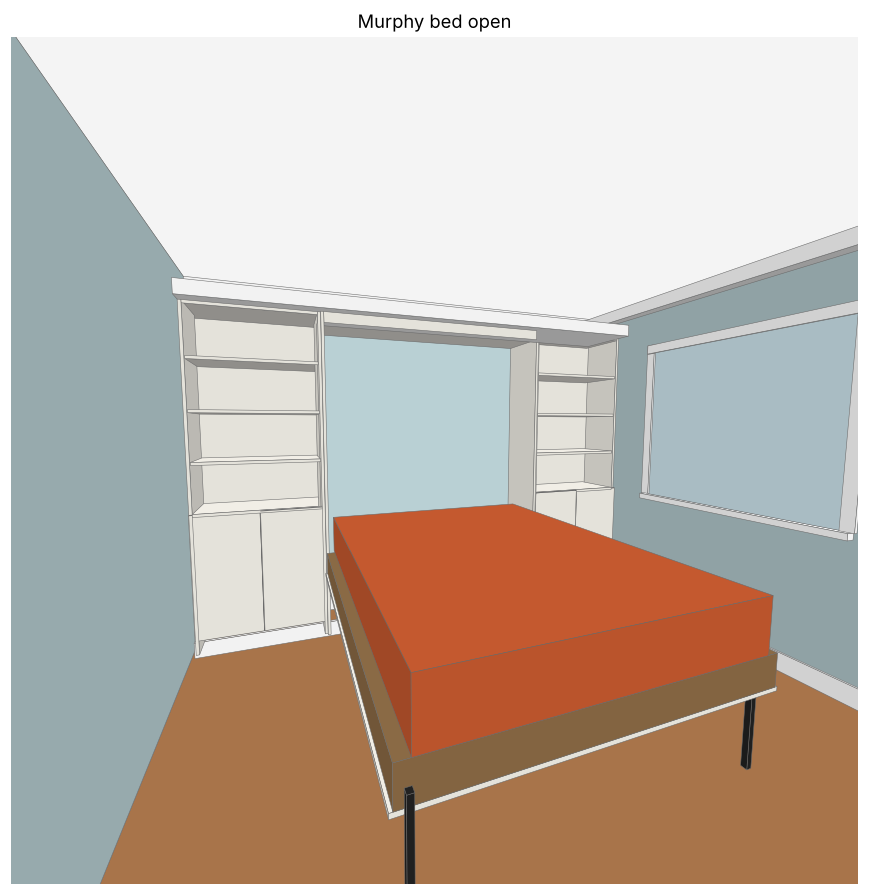
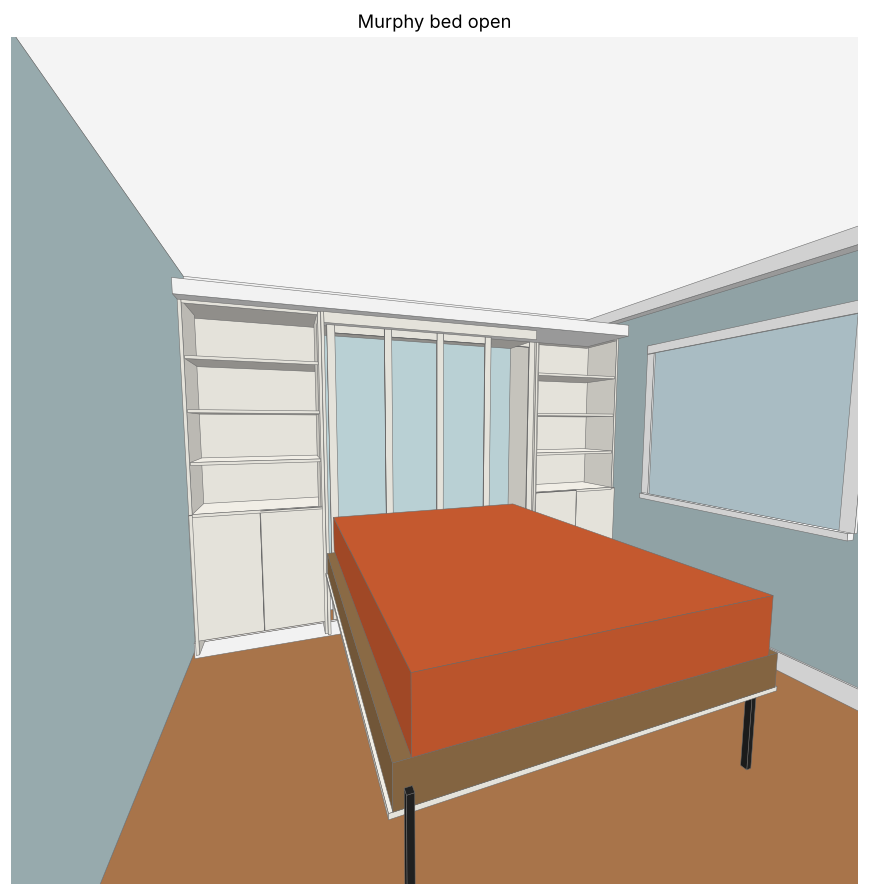
Add face panel moulding (kit p.3 full-length style) to model, cut list, guide and tests
Claude-Session: https://claude.ai/code/session_01KugbWEtLNVU8bq7dW5xBvy

Changed region(s): [[0.3728, 0.362, 0.6214, 0.6034]]

diff --git a/murphy-bed/design.py b/murphy-bed/design.py
@@ -12,6 +12,7 @@ exactly (UPDATED_Queen_Adjustable.pdf, pp. 2, 5, 6). Everything else is ours.
 import csv
 import math
 import os
+from collections import Counter
 from dataclasses import dataclass, field
 from fractions import Fraction
 
@@ -49,6 +50,18 @@ STUD_OC = 16.0          # wall stud spacing (ASSUMED; the kit needs 4 anchor poi
 FACE_PANEL_H = 81.75    # plans p.6 part E
 HEADER_FRONT_RAIL = 2.75  # plans p.6 part H front rail covers the top of the opening
 FACE_PANEL_BOTTOM = BED_H - HEADER_FRONT_RAIL - FACE_PANEL_H   # ~2-5/8" above the floor
+FACE_PANEL_W = 64.0     # two 32" panels side by side (plans p.6 part E)
+FACE_PANEL_STYLE = 'full'   # kit p.3: 'full' = full-length stiles, 'split' = adds a middle rail
+FACE_TRIM_W, FACE_TRIM_T = 2.0, 0.25   # flat strips applied to the panel (ASSUMED; thin to save weight)
+FACE_TRIM_INSET = 0.5   # strips stay this far inside the panel edges so nothing catches on the verticals/header
+FACE_TRIM_BOTTOM = max(FACE_TRIM_INSET, BASE_H + 0.125 - FACE_PANEL_BOTTOM)   # keep strips above the base moulding
+FACE_SPLIT_Z = 29.0     # split style: bottom of the middle rail, measured up from the panel bottom
+FACE_TRIM_DENSITY = 0.0162   # lb per cubic inch, poplar (~28 lb/ft^3); MDF is ~0.0278
+PLY_DENSITY = 0.0226    # lb per cubic inch, birch plywood (~39 lb/ft^3)
+MATTRESS_LB = 70.0      # ASSUMED: weigh yours. Kit spec for a queen is 65-80 lb (plans p.1)
+MATTRESS_MAX_LB = 80.0
+HANDLE_OFFSET = 3.0     # handle centre distance from the panel centre line
+HANDLE_Z = (62.0, 70.0)  # handle bar height above the floor (kit says 5'-6')
 LOWER_H = 36.0          # top of lower (doored) section
 KERF = 0.125            # user's saw blade is at least 1/8"; every cut in the layouts costs this much
 EDGE_TRIM = 0.125       # factory edge trimmed off one long edge and one end of every sheet
@@ -115,6 +128,45 @@ def tower_parts():
         Part('Tower back', 'tower', '1/4 ply', n, TOWER_W, BED_H),
         Part('Scribe strip (rip to fit walls)', 'tower', '3/4 ply', 2, 3.0, BED_H, 'face-attached to outer tower sides'),
     ]
+
+
+def face_trim_layout():
+    """Flat strips applied to the face panels, in panel coordinates (x from left edge, z from bottom edge)."""
+    inset, sw, bot = FACE_TRIM_INSET, FACE_TRIM_W, FACE_TRIM_BOTTOM
+    frame_w, frame_h = FACE_PANEL_W - 2 * inset, FACE_PANEL_H - inset - bot
+    opening = (frame_w - 5 * sw) / 4
+    out = [('Face moulding stile', inset + i * (opening + sw), bot, sw, frame_h) for i in range(5)]
+    for j in range(4):
+        x = inset + sw + j * (opening + sw)
+        out.append(('Face moulding rail', x, bot, opening, sw))
+        out.append(('Face moulding rail', x, bot + frame_h - sw, opening, sw))
+        if FACE_PANEL_STYLE == 'split':
+            out.append(('Face moulding middle rail', x, FACE_SPLIT_Z, opening, sw))
+    return out
+
+
+def face_trim_parts():
+    count = Counter((n, round(w, 4), round(h, 4)) for n, _, _, w, h in face_trim_layout())
+    return [Part(n, 'facetrim', 'solid', q, min(w, h), max(w, h), f'{frac(FACE_TRIM_T)} thick; square cuts, glue + 18 ga brads')
+            for (n, w, h), q in count.items()]
+
+
+def face_trim_weight_lb():
+    return sum(w * h for _, _, _, w, h in face_trim_layout()) * FACE_TRIM_T * FACE_TRIM_DENSITY
+
+
+def moving_mass_lb():
+    """Rough weight of the part of the bed that moves, without mattress (ply + solid parts + ~6 lb legs/hardware)."""
+    total = 6.0
+    for p in bed_parts():
+        if p.name.startswith(('F ', 'G ', 'H ')):         # cabinet parts do not move
+            continue
+        vol = {'3/4 ply': 0.75, '1/4 ply': 0.25}.get(p.mat)
+        if vol:
+            total += p.qty * p.w * p.l * vol * PLY_DENSITY
+        else:
+            total += p.qty * p.w * p.l * 0.75 * FACE_TRIM_DENSITY
+    return total
 
 
 def trim_list():
@@ -209,8 +261,12 @@ def boxes():
     b.append(('bed vertical L', 'bed', x_bed, 0, 0, T, BED_D, BED_H))
     b.append(('bed vertical R', 'bed', x_right - T, 0, 0, T, BED_D, BED_H))
     b.append(('bed header', 'bed', x_bed + T, 0, BED_H - HEADER_FRONT_RAIL, BED_W - 2 * T, BED_D, HEADER_FRONT_RAIL))
-    b.append(('bed face (closed)', 'bed', x_bed + T + 0.5, BED_D - 0.75 - 0.125, FACE_PANEL_BOTTOM, BED_W - 2 * T - 1.0, 0.75, FACE_PANEL_H))
-    b.append(('bed frame (closed)', 'bedin', x_bed + T + 0.75, BED_D - 0.875 - 6.0, FACE_PANEL_BOTTOM, BED_W - 2 * T - 1.5, 6.0, FACE_PANEL_H - 0.75))
+    face_x = x_bed + T + (BED_W - 2 * T - FACE_PANEL_W) / 2
+    face_y = BED_D - 0.125 - 0.75
+    b.append(('bed face (closed)', 'bed', face_x, face_y, FACE_PANEL_BOTTOM, FACE_PANEL_W, 0.75, FACE_PANEL_H))
+    b.append(('bed frame (closed)', 'bedin', face_x + 0.25, face_y - 6.0, FACE_PANEL_BOTTOM, FACE_PANEL_W - 0.5, 6.0, FACE_PANEL_H - 0.75))
+    for n, px, pz, pw, ph in face_trim_layout():
+        b.append((f'{n.lower()} @{px:.2f},{pz:.2f}', 'facetrim', face_x + px, face_y + 0.75, FACE_PANEL_BOTTOM + pz, pw, FACE_TRIM_T, ph))
     for nm, x0 in (('L', x_left), ('R', x_right)):
         b.append((f'tower side out {nm}', 'tower', x0, BACK_T, 0, T, SIDE_D, BED_H))
         b.append((f'tower side in {nm}', 'tower', x0 + tw - T, BACK_T, 0, T, SIDE_D, BED_H))
@@ -231,7 +287,7 @@ def boxes():
     return b
 
 
-COLORS = {'bed': '#c9a46c', 'bedin': '#a98550', 'tower': '#d8c29a', 'shelf': '#cfb284', 'door': '#e6d5b0', 'trim': '#f3ede0'}
+COLORS = {'facetrim': '#ead9b3', 'bed': '#c9a46c', 'bedin': '#a98550', 'tower': '#d8c29a', 'shelf': '#cfb284', 'door': '#e6d5b0', 'trim': '#f3ede0'}
 
 
 def write_scad(path):
@@ -308,10 +364,19 @@ vertical **and** each tower side: **{frac(notch_h)} tall x {frac(notch_d)} deep*
 - Iron slowly at medium-high heat, press with a block, trim the overhang with a banding trimmer or sharp chisel,
   and lightly sand the edge flush. Do the end grain first, then the long edges.
 
-## 5. Face-panel moulding (optional, kit p.3)
+## 5. Face-panel moulding ({FACE_PANEL_STYLE}-length style, kit p.3)
 
-The kit's "full-length" and "split" panel mouldings add weight to the face panel. The gas springs are balanced for
-the plain panel, so call Create-A-Bed (1-877-966-3852) before adding any.
+- **Layout.** Flat {frac(FACE_TRIM_W)} x {frac(FACE_TRIM_T)} strips on the two 32" face panels: 5 full-height stiles (the centre one covers the seam between the panels)
+  with short rails top and bottom{" and a middle rail" if FACE_PANEL_STYLE == "split" else ""}, making 4 equal panels about {frac((FACE_PANEL_W - 2 * FACE_TRIM_INSET - 5 * FACE_TRIM_W) / 4)} wide.
+  Keep everything {frac(FACE_TRIM_INSET)} inside the side and top edges so nothing catches on the cabinet verticals or the header as the bed swings, and start the
+  bottom rail {frac(FACE_TRIM_BOTTOM)} up from the panel's bottom edge so it clears the {frac(BASE_H)} base moulding.
+- **Cutting and fastening.** Square cuts; rails butt between stiles. Glue and 5/8" 18 ga brads into the plywood only. Do not use anything longer than the panel is thick.
+  The strips stand {frac(FACE_TRIM_T)} proud of the panel, which puts them {frac(FACE_TRIM_T - 0.125)} proud of the cabinet front.
+- **Handles** (5'-6' high on the kit's p.21): bars {frac(HANDLE_OFFSET)} either side of the centre stile, which leaves {frac(HANDLE_OFFSET - 0.25 - FACE_TRIM_W / 2)} to the stile.
+- **Weight.** About {face_trim_weight_lb():.1f} lb of moulding. The kit sets the queen springs at #5 on a 1-5 scale and its instructions only describe turning the setting *down*
+  (assembly booklet p.11), so the springs have no extra power in reserve. Add the moulding **before** you balance the bed, then choose a mattress with
+  mattress + moulding at or below {MATTRESS_MAX_LB:.0f} lb (about {MATTRESS_MAX_LB - face_trim_weight_lb():.0f} lb mattress or lighter). Keep strips thin; 3/4" solid moulding would be several times this weight.
+  Create-A-Bed's advice is to call them before modifying the bed, so this is your call to make; a quick call about the springs is cheap insurance.
 
 ## 6. Order of work
 
@@ -324,9 +389,9 @@ the plain panel, so call Create-A-Bed (1-877-966-3852) before adding any.
 
 
 def write_reports(outdir):
-    bed, tower = bed_parts(), tower_parts()
+    bed, tower, face = bed_parts(), tower_parts(), face_trim_parts()
     rows = []
-    for grp in (bed, tower):
+    for grp in (bed, tower, face):
         for p in grp:
             rows.append([p.group, p.name, p.mat, p.qty, frac(p.w), frac(p.l), p.note])
     with open(os.path.join(outdir, 'cutlist.csv'), 'w', newline='') as f:
@@ -345,7 +410,8 @@ def write_reports(outdir):
     md.append(f'Centered layout on an {WALL_W / 12:.0f} ft wall: towers {frac(TOWER_W)} wide each, bed cabinet {frac(BED_W)}, '
               f'{frac(SCRIBE)} fitting gap at each wall. Everything {frac(BED_H)} tall + {frac(NEW_CROWN_H)} crown '
               f'= {frac(BED_H + NEW_CROWN_H)} under a {frac(CEIL_H)} ceiling.\n')
-    for title, grp in (('Murphy bed cabinet (Create-A-Bed plans, do not alter)', bed), ('Shelf towers (x2, mirror-identical)', tower)):
+    for title, grp in (('Murphy bed cabinet (Create-A-Bed plans, do not alter)', bed), ('Shelf towers (x2, mirror-identical)', tower),
+                       (f'Face panel moulding ({FACE_PANEL_STYLE}-length style, kit p.3; applied to the bed face)', face)):
         md.append(f'## {title}\n')
         md.append('| Part | Material | Qty | Width | Length | Notes |')
         md.append('|---|---|---|---|---|---|')
@@ -374,7 +440,11 @@ def write_reports(outdir):
            '- Tower-to-wall anchors: 2 cleats or 4 screws per tower; tower-to-bed-cabinet clamp screws through the adjoining sides',
            '- #8 x 1-1/4" and 1-1/2" screws, glue, 1-1/2" finish nails (per kit BOM)']
     md.append('\n## Assumptions to verify\n')
-    md += [f'- Ceiling {frac(CEIL_H)}, measured from the HIGH point of the floor (floor is NOT level)',
+    fw = face_trim_weight_lb()
+    md += [f'- Face moulding adds about {fw:.1f} lb ({frac(FACE_TRIM_W)} x {frac(FACE_TRIM_T)} poplar strips; about {fw * 0.0278 / FACE_TRIM_DENSITY:.1f} lb if MDF). '
+           f'Rough moving mass of the bed without mattress is ~{moving_mass_lb():.0f} lb. The kit rates a queen mattress at 65-80 lb and sets the springs at #5, '
+           f'the top of their 1-5 scale, so keep mattress + moulding at or below {MATTRESS_MAX_LB:.0f} lb: with this moulding, a mattress up to about {MATTRESS_MAX_LB - fw:.0f} lb (weigh yours).',
+           f'- Ceiling {frac(CEIL_H)}, measured from the HIGH point of the floor (floor is NOT level)',
            f'- Existing crown {frac(EXIST_CROWN_H)} tall x {frac(EXIST_CROWN_PROJ)} proud; new crown {frac(NEW_CROWN_H)} tall (matches style, not measured)',
            f'- Gap between new crown top ({frac(BED_H + NEW_CROWN_H)}) and bottom of existing crown ({frac(CEIL_H - EXIST_CROWN_H)}) is {frac(CEIL_H - EXIST_CROWN_H - BED_H - NEW_CROWN_H)} on a level floor. With a {frac(FLOOR_DROP)} floor drop the unit is set level from the HIGH end of the floor, so the gap shrinks to {frac(CEIL_H - EXIST_CROWN_H - BED_H - NEW_CROWN_H - FLOOR_DROP)}. Ceiling must be measured from the high point of the floor.',
            f'- Floor not level (assumed {frac(FLOOR_DROP)} across the wall): level and plumb the bed cabinet FIRST on shims at the high point, set the towers to match its top, then scribe the base moulding to the floor. Shims go behind the base moulding. The bed cabinet must be plumb or the face-panel gap will be uneven (plans, assembly p.11 steps 19-20).',
@@ -419,10 +489,12 @@ def draw_all(outdir, s34, s14):
         for hx in (x0 + TOWER_W / 2 - 2.5, x0 + TOWER_W / 2 + 2.5):
             ax.plot([hx] * 2, [LOWER_H - 9, LOWER_H - 3], color='k', lw=2)
     ax.add_patch(Rectangle((xb, 0), BED_W, BED_H, fc=COLORS['bed'], ec='k'))
-    ax.add_patch(Rectangle((xb + T + 0.5, 4), BED_W - 2 * T - 1, 81.75, fc='#e3c590', ec='k'))
-    ax.plot([xb + BED_W / 2] * 2, [4, 85.75], 'k', lw=1)
-    for hx in (xb + BED_W / 2 - 3, xb + BED_W / 2 + 3):
-        ax.plot([hx] * 2, [62, 70], 'k', lw=2.5)
+    fx = xb + T + (BED_W - 2 * T - FACE_PANEL_W) / 2
+    ax.add_patch(Rectangle((fx, FACE_PANEL_BOTTOM), FACE_PANEL_W, FACE_PANEL_H, fc='#e3c590', ec='k'))
+    for n, px, pz, pw, ph in face_trim_layout():
+        ax.add_patch(Rectangle((fx + px, FACE_PANEL_BOTTOM + pz), pw, ph, fc='#f2e6c8', ec='#7a6a45', lw=0.8))
+    for hx in (xb + BED_W / 2 - HANDLE_OFFSET, xb + BED_W / 2 + HANDLE_OFFSET):
+        ax.plot([hx] * 2, list(HANDLE_Z), 'k', lw=2.5)
     ax.fill([0, WALL_W, WALL_W], [0, 0, -FLOOR_DROP], color='#c33', alpha=0.5)
     ax.plot([0, WALL_W], [0, -FLOOR_DROP], color='#c33', lw=1.5)
     ax.text(WALL_W / 2, -FLOOR_DROP - 4, f'floor falls {frac(FLOOR_DROP)} (assumed): unit set level at high end, base moulding scribed', ha='center', fontsize=7, color='#c33')
@@ -430,7 +502,7 @@ def draw_all(outdir, s34, s14):
     ax.add_patch(Rectangle((xl, BED_H), WALL_W - 2 * SCRIBE, NEW_CROWN_H, fc=COLORS['trim'], ec='k'))
     ax.text(xl + TOWER_W / 2, 60, 'open shelves\n(3 adjustable)', ha='center', fontsize=9)
     ax.text(xl + TOWER_W / 2, 20, 'doors', ha='center', fontsize=9)
-    ax.text(xb + BED_W / 2, 40, 'MURPHY BED\n(Create-A-Bed queen vertical)', ha='center', fontsize=10)
+    ax.text(xb + BED_W / 2, 36, 'MURPHY BED', ha='center', fontsize=10, bbox=dict(fc='#f2e6c8', ec='none', pad=2))
     ax.annotate('', (xl, -12), (xb, -12), arrowprops=dict(arrowstyle='<->'))
     ax.text((xl + xb) / 2, -16, frac(TOWER_W), ha='center', fontsize=9)
     ax.annotate('', (xb, -12), (xr, -12), arrowprops=dict(arrowstyle='<->'))

diff --git a/murphy-bed/test_design.py b/murphy-bed/test_design.py
@@ -240,6 +240,86 @@ class SheetLayouts(unittest.TestCase):
             self.assertGreater(need / have, 0.40, 'suspiciously wasteful layout')
 
 
+class FacePanelMoulding(unittest.TestCase):
+    def rects(self):
+        return d.face_trim_layout()
+
+    def test_strips_stay_inside_the_panel_with_clearance(self):
+        min_inset = 0.25     # absolute: nothing may sit closer than 1/4" to a panel edge
+        self.assertGreaterEqual(d.FACE_TRIM_INSET, min_inset)
+        for n, x, z, w, h in self.rects():
+            self.assertGreaterEqual(x, min_inset - EPS, n)
+            self.assertLessEqual(x + w, d.FACE_PANEL_W - min_inset + EPS, n)
+            self.assertLessEqual(z + h, d.FACE_PANEL_H - min_inset + EPS, n)
+
+    def test_strips_clear_the_base_moulding(self):
+        lowest = min(d.FACE_PANEL_BOTTOM + z for n, x, z, w, h in self.rects())
+        self.assertGreaterEqual(lowest, d.BASE_H + 0.125 - EPS)
+
+    def test_strips_do_not_overlap_each_other(self):
+        r = self.rects()
+        for i, (n1, x1, z1, w1, h1) in enumerate(r):
+            for n2, x2, z2, w2, h2 in r[i + 1:]:
+                ox = min(x1 + w1, x2 + w2) - max(x1, x2)
+                oz = min(z1 + h1, z2 + h2) - max(z1, z2)
+                self.assertFalse(ox > EPS and oz > EPS, f'{n1} overlaps {n2}')
+
+    def test_panels_are_real_panels(self):
+        stiles = sorted(x for n, x, z, w, h in self.rects() if n == 'Face moulding stile')
+        self.assertEqual(len(stiles), 5)
+        gaps = [stiles[i + 1] - stiles[i] - d.FACE_TRIM_W for i in range(4)]
+        for g in gaps:
+            self.assertAlmostEqual(g, gaps[0])
+            self.assertGreater(g, 6)
+        # centre stile covers the seam between the two 32" face panels
+        self.assertAlmostEqual(stiles[2] + d.FACE_TRIM_W / 2, d.FACE_PANEL_W / 2)
+
+    def test_handles_clear_every_strip(self):
+        for hx in (d.FACE_PANEL_W / 2 - d.HANDLE_OFFSET, d.FACE_PANEL_W / 2 + d.HANDLE_OFFSET):
+            hz0, hz1 = (z - d.FACE_PANEL_BOTTOM for z in d.HANDLE_Z)
+            for n, x, z, w, h in self.rects():
+                hit = (hx + 0.25 > x and hx - 0.25 < x + w) and (hz1 > z and hz0 < z + h)
+                self.assertFalse(hit, f'handle at {hx} hits {n}')
+        self.assertTrue(60 <= d.HANDLE_Z[0] and d.HANDLE_Z[1] <= 72)     # kit: 5'-6' (plans p.21)
+
+    def test_moulding_barely_proud_of_the_cabinet_front(self):
+        fronts = {round(y + dy, 4) for n, g, x, y, z, dx, dy, dz in d.boxes() if g == 'facetrim'}
+        self.assertEqual(len(fronts), 1)
+        self.assertLessEqual(fronts.pop() - d.BED_D, 0.5)
+
+    def test_face_panel_matches_the_kit(self):
+        face = [b for b in d.boxes() if b[0] == 'bed face (closed)'][0]
+        self.assertAlmostEqual(face[5], 2 * by_name(d.bed_parts())['E Bed face panel'].w)
+        inner = d.BED_W - 2 * d.T
+        self.assertAlmostEqual(face[2] - (d.SCRIBE + d.TOWER_W + d.T), (inner - face[5]) / 2)   # centered in the opening
+
+    def test_model_and_cut_list_agree(self):
+        self.assertEqual(sum(1 for b in d.boxes() if b[1] == 'facetrim'), len(d.face_trim_layout()))
+        listed = sum(p.qty * p.l for p in d.face_trim_parts())
+        laid = sum(max(w, h) for n, x, z, w, h in d.face_trim_layout())
+        self.assertAlmostEqual(listed, laid)
+
+    def test_weight_stays_inside_the_kits_mattress_budget(self):
+        w = d.face_trim_weight_lb()
+        self.assertLess(w, 7.5)                                  # under half of the kit's 65-80 lb mattress band
+        self.assertLess(w / (d.moving_mass_lb() + d.MATTRESS_LB), 0.05)
+        self.assertLessEqual(d.MATTRESS_LB + w, d.MATTRESS_MAX_LB,
+                             'mattress + moulding exceeds the 80 lb the springs are set for')
+
+    def test_split_style_also_works(self):
+        saved = d.FACE_PANEL_STYLE
+        d.FACE_PANEL_STYLE = 'split'
+        try:
+            rects = d.face_trim_layout()
+            self.assertEqual(sum(1 for r in rects if r[0] == 'Face moulding middle rail'), 4)
+            for hx in (d.FACE_PANEL_W / 2 - d.HANDLE_OFFSET, d.FACE_PANEL_W / 2 + d.HANDLE_OFFSET):
+                hz0, hz1 = (z - d.FACE_PANEL_BOTTOM for z in d.HANDLE_Z)
+                for n, x, z, w, h in rects:
+                    self.assertFalse((hx + 0.25 > x and hx - 0.25 < x + w) and (hz1 > z and hz0 < z + h), n)
+        finally:
+            d.FACE_PANEL_STYLE = saved
+
+
 class ReportsAndDrawings(unittest.TestCase):
     def test_reports_and_drawings_generate(self):
         with tempfile.TemporaryDirectory() as t:

diff --git a/murphy-bed/out/trim_guide.md b/murphy-bed/out/trim_guide.md
@@ -48,10 +48,19 @@ vertical **and** each tower side: **4-5/8" tall x 5/8" deep**. For the 1/4" towe
 - Iron slowly at medium-high heat, press with a block, trim the overhang with a banding trimmer or sharp chisel,
   and lightly sand the edge flush. Do the end grain first, then the long edges.
 
-## 5. Face-panel moulding (optional, kit p.3)
+## 5. Face-panel moulding (full-length style, kit p.3)
 
-The kit's "full-length" and "split" panel mouldings add weight to the face panel. The gas springs are balanced for
-the plain panel, so call Create-A-Bed (1-877-966-3852) before adding any.
+- **Layout.** Flat 2" x 1/4" strips on the two 32" face panels: 5 full-height stiles (the centre one covers the seam between the panels)
+  with short rails top and bottom, making 4 equal panels about 13-1/4" wide.
+  Keep everything 1/2" inside the side and top edges so nothing catches on the cabinet verticals or the header as the bed swings, and start the
+  bottom rail 1-1/2" up from the panel's bottom edge so it clears the 4" base moulding.
+- **Cutting and fastening.** Square cuts; rails butt between stiles. Glue and 5/8" 18 ga brads into the plywood only. Do not use anything longer than the panel is thick.
+  The strips stand 1/4" proud of the panel, which puts them 1/8" proud of the cabinet front.
+- **Handles** (5'-6' high on the kit's p.21): bars 3" either side of the centre stile, which leaves 1-3/4" to the stile.
+- **Weight.** About 4.1 lb of moulding. The kit sets the queen springs at #5 on a 1-5 scale and its instructions only describe turning the setting *down*
+  (assembly booklet p.11), so the springs have no extra power in reserve. Add the moulding **before** you balance the bed, then choose a mattress with
+  mattress + moulding at or below 80 lb (about 76 lb mattress or lighter). Keep strips thin; 3/4" solid moulding would be several times this weight.
+  Create-A-Bed's advice is to call them before modifying the bed, so this is your call to make; a quick call about the springs is cheap insurance.
 
 ## 6. Order of work
 

diff --git a/murphy-bed/out/cutlist.md b/murphy-bed/out/cutlist.md
@@ -34,6 +34,13 @@ Centered layout on an 11 ft wall: towers 32-5/16" wide each, bed cabinet 65-7/8"
 | Tower back | 1/4 ply | 2 | 32-5/16" | 87-1/8" |  |
 | Scribe strip (rip to fit walls) | 3/4 ply | 2 | 3" | 87-1/8" | face-attached to outer tower sides |
 
+## Face panel moulding (full-length style, kit p.3; applied to the bed face)
+
+| Part | Material | Qty | Width | Length | Notes |
+|---|---|---|---|---|---|
+| Face moulding stile | solid | 5 | 2" | 79-3/4" | 1/4" thick; square cuts, glue + 18 ga brads |
+| Face moulding rail | solid | 8 | 2" | 13-1/4" | 1/4" thick; square cuts, glue + 18 ga brads |
+
 ## Sheet goods
 
 All sheet parts (bed cabinet and towers) are packed together with a 1/8" kerf between every pair of parts and 1/8" trimmed off one long edge and one end of each sheet (grain along the 96" length, no rotation). The bed-kit parts keep the exact sizes from the plans; only their positions on the sheet differ from the plans' cutting guide, because that guide leaves only 1/8" of slack (15-7/8" + 32" on a 48" sheet) and fails once edge trim is allowed for.
@@ -75,6 +82,7 @@ All sheet parts (bed cabinet and towers) are packed together with a 1/8" kerf be
 
 ## Assumptions to verify
 
+- Face moulding adds about 4.1 lb (2" x 1/4" poplar strips; about 7.0 lb if MDF). Rough moving mass of the bed without mattress is ~163 lb. The kit rates a queen mattress at 65-80 lb and sets the springs at #5, the top of their 1-5 scale, so keep mattress + moulding at or below 80 lb: with this moulding, a mattress up to about 76 lb (weigh yours).
 - Ceiling 96", measured from the HIGH point of the floor (floor is NOT level)
 - Existing crown 3-1/2" tall x 3-1/2" proud; new crown 3-1/2" tall (matches style, not measured)
 - Gap between new crown top (90-5/8") and bottom of existing crown (92-1/2") is 1-7/8" on a level floor. With a 1" floor drop the unit is set level from the HIGH end of the floor, so the gap shrinks to 7/8". Ceiling must be measured from the high point of the floor.
